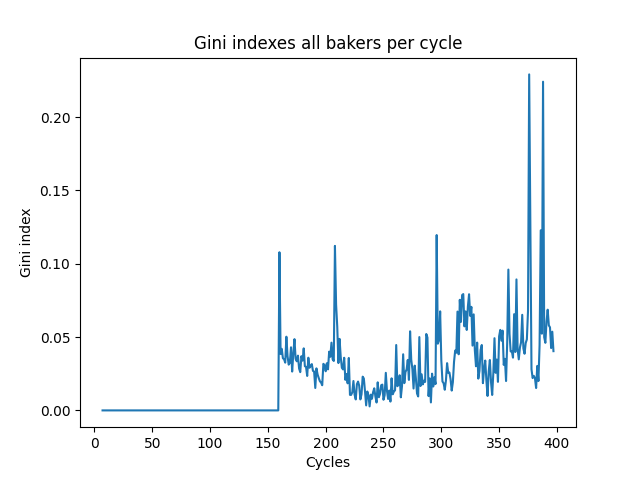
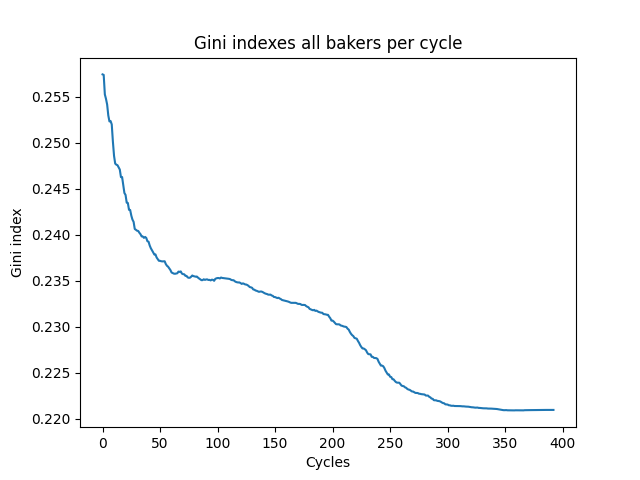
Add gini index fix for bakers per cycle

diff --git a/tezos_blocks_dbread.py b/tezos_blocks_dbread.py
@@ -19,9 +19,10 @@ def get_reward_over_5cyclesfromx():
 
 def get_reward_per_cycle_baker(cycle_num):
     rewards_list = []
-    rewards = cur.execute('SELECT reward FROM blocks where cycle=? GROUP BY cycle,baker', (cycle_num,)).fetchall()
-    for rew in rewards:
-        rewards_list.append(rew)
+    # rewards = cur.execute('SELECT reward FROM blocks where cycle=? GROUP BY cycle,baker', (cycle_num,)).fetchall()
+    rewards = cur.execute('SELECT reward FROM blocks where cycle=? GROUP BY cycle,baker', (cycle_num,)).fetchall()[0]
+    for re in rewards:
+        rewards_list.append(re)
     return rewards_list
 
 
@@ -29,6 +30,7 @@ def calculate_gini_index(wealths):
     """Compute Gini coefficient of array of values"""
     # convert list to numpy array
     wealths = np.asarray(wealths)
+    # print('wealths', wealths)
     diffsum = 0
     for i, xi in enumerate(wealths[:-1], 1):
         diffsum += np.sum(np.abs(xi - wealths[i:]))
@@ -43,6 +45,15 @@ def get_avg_reward_per_cycle():
         avg_reward_per_cycle.append(reward[0])
 
     return avg_reward_per_cycle
+
+
+def get_avg_reward_per_delegates():
+    avg_reward_per_delegate_per_cycle = []
+    reward_list = cur.execute('SELECT reward FROM delegates').fetchall()
+    for reward in reward_list:
+        avg_reward_per_delegate_per_cycle.append(reward[0])
+    print('avg reward per delegate per cycle', avg_reward_per_delegate_per_cycle);
+    return avg_reward_per_delegate_per_cycle
 
 
 def get_avg_reward_blocks():
@@ -142,26 +153,107 @@ def compute_gini_index_rewards(rewards):
     return gini_index_rewards
 
 
+def get_baker_addresses():
+    baker_addresses = cur.execute('SELECT address FROM bakers').fetchall()
+    baker_address_list = []
+    for add in baker_addresses:
+        baker_address_list.append(add[0])
+    return baker_address_list
+
+
 def compute_gini_all_bakers_per_cycle():
-    baker_per_cycle_gini_indexes = []
-    rewards_list = []
+    gini_indexes_list = []
+    rewards = []
+    baker_address_list = get_baker_addresses()
+    for baker in baker_address_list:
+        rew = cur.execute('SELECT reward FROM blocks where baker=? GROUP BY cycle,baker', (baker,)).fetchall()
+        for r in rew:
+            rewards.append(r[0])
+        np.asarray(rewards)
+        gini = calculate_gini_index(rewards)
+        gini_indexes_list.append(gini)
+    return gini_indexes_list
+
+
+def compute_gini_all_delegates_rewards(rewards):
+    gini_indexes_list = []
+    # TODO: get list of delegates addresses and then the corresponsing reward & calculate the gini index list
+    return
+
+
+def get_staking_balance_per_cycle_baker(cycle):
+    staking_list = []
+    stakings = cur.execute('SELECT staking_balance from baker_staking_cycles where cycle=? GROUP BY cycle,baker', (cycle,)).fetchall()
+    print('stakings', stakings)
+    for stake in stakings:
+        staking_list.append(stake)
+    return staking_list
+
+
+def compute_gini_all_bakers_staking_per_cycle():
+    baker_per_cycle_gini_indexes_stakes = []
+    staking_list = []
     cycles = list(range(num_cycles))
     for cycle in cycles:
-        rewards_list.append(get_reward_per_cycle_baker(cycle))
-    for rew in rewards_list:
-        baker_per_cycle_gini_indexes.append(compute_gini_index_rewards(rew))
-    return baker_per_cycle_gini_indexes
+        staking_list.append(get_staking_balance_per_cycle_baker(cycle))
+    for stake in staking_list:
+        baker_per_cycle_gini_indexes_stakes.append(compute_gini_index_rewards(stake))
+    print('gini indexes stakes',baker_per_cycle_gini_indexes_stakes)
+    return baker_per_cycle_gini_indexes_stakes
 
 
 def plot_gini_indexes_all_bakers_per_cycle():
     gini_indexes_all_bakers_rewards = compute_gini_all_bakers_per_cycle()
-    x_data = list(range(0, num_cycles))
+    y_data_length = len(gini_indexes_all_bakers_rewards)
+    # TODO: check that x_data and y_data have equal length
+    x_data = list(range(0, y_data_length))
     y_data = gini_indexes_all_bakers_rewards
     plt.plot(x_data, y_data)
     plt.title('Gini indexes all bakers per cycle')
     plt.xlabel('Cycles')
     plt.ylabel('Gini index')
-    plt.savefig('Gini_indexes_all_bakers_per_cycle')
+    plt.savefig('Gini_indexes_all_bakers_per_cycle.png')
+    plt.show()
+    plt.close()
+
+
+def plot_gini_indexes_all_bakers_staking_balance_per_cycle():
+    gini_indexes_all_bakers_staking = compute_gini_all_bakers_staking_per_cycle()
+    x_data = list(range(0, num_cycles))
+    y_data = gini_indexes_all_bakers_staking
+    plt.plot(x_data, y_data)
+    plt.title('Gini indexes all bakers staking_balance per cycle')
+    plt.xlabel('Cycles')
+    plt.ylabel('Gini index')
+    plt.savefig('Gini_indexes_all_bakers_staking_per_cycle.png')
+    plt.show()
+    plt.close()
+
+
+def plot_gini_indexes_all_delegators_per_cycle():
+    # TODO: get rewards per cycle for all delegators
+    # delegator_rewards = get_avg_reward_per_delegators()
+    x_data = list(range(0, num_cycles))
+    # y_data
+    # plt.plot(x_data, y_data)
+    plt.title('Gini indexes all delegators per cycle')
+    plt.xlabel('Cycles')
+    plt.ylabel('Gini index')
+    plt.savefig('Gini_indexes_all_delegators_per_cycle.png')
+    plt.show()
+    plt.close()
+
+
+def plot_delegates_all_cycles():
+    avg_rewards = get_avg_reward_per_delegates()
+    # compute_gini_all_delegates_rewards(avg_rewards)
+    # print('xdata delegates', x_data)
+    x_data = list(range(0, num_cycles))
+    # y_data
+    plt.title('Gini indexes all delegates per cycles')
+    plt.xlabel('Cycles')
+    plt.ylabel('Gini index')
+    plt.savefig('Gini_indexes_all_delegates_per_cycle.png')
     plt.show()
     plt.close()
 
@@ -183,13 +275,8 @@ if __name__ == '__main__':
     total_rewards_per_bakers = cur.execute('SELECT total_rewards_earned from accounts').fetchall()
     gini_index_totalrew_per_baker = compute_gini_index_rewards(total_rewards_per_bakers)
 
-    plot_gini_indexes_all_bakers_per_cycle()
+    plot_gini_indexes_all_bakers_per_cycle()  # This takes a while, to debug the rest uncomment this
+    # plot_gini_indexes_all_bakers_staking_balance_per_cycle() # TODO: check this still an error there
+    # plot_gini_indexes_all_delegators_per_cycle() # TODO: check and fix this
+    # plot_delegates_all_cycles() # TODO: check this
     cur.close()
-
-# TODO: Make same as above for the bakers also for the delegators & compare bakers and delegators & do it also for
-#  staking calculate gini index for each cycle --> see how it develops over time check the take off point at 200 cycles
-#  -> check if they see amount of tokens check proposal -> voting and online to check whether proposal/protocol
-#  changed at certain amount of cycles like 200, 150 look at self-delegates vs. bakers and nonself-delegates vs.
-#  bakers calculate gini index for the bakers staking_balance & plot how to select baker as a delegator -> sleect
-#  ones that already have a large stake? -> could be problematic similar to rich get richer--> gini index of stakes
-#  gives insight (if this distribution becomes more unequal) called preferential attechment

diff --git a/db_changes.py b/db_changes.py
@@ -1,0 +1,21 @@
+# db changes here
+
+# TODO 1) baker_cycle_staking table
+# Baker: address, stakingbalance, Cycle: cycle, activebakers, activedelegators
+# insert into cyclerewards staking_balance select staking_balance from bakers where cyclerewards.baker = bakers.address;
+
+
+# SELECT cyclerewards.baker, cyclerewards.cycle, cyclerewards.reward, bakers.address, bakers.staking_balance,
+# bakers.staking_capacity, bakers.id FROM cyclerewards INNER JOIN bakers ON cyclerewards.baker = bakers.address;
+
+
+# create table baker_staking_cycles AS SELECT cyclerewards.baker, cyclerewards.cycle, cyclerewards.reward,
+# bakers.address, bakers.staking_balance, bakers.staking_capacity, bakers.id FROM cyclerewards INNER JOIN bakers ON
+# cyclerewards.baker = bakers.address;
+
+# import sqlite3
+
+# dbfile = '/home/anjakoller/tezos_dataextraction_merged_alltables.db'
+# dbfile2 = '/home/anjakoller/tezos_'
+# con = sqlite3.connect(dbfile)  # attributes: cycle, baker, fee, reward, deposit, blocks (merged db)
+# cur = con.cursor()
